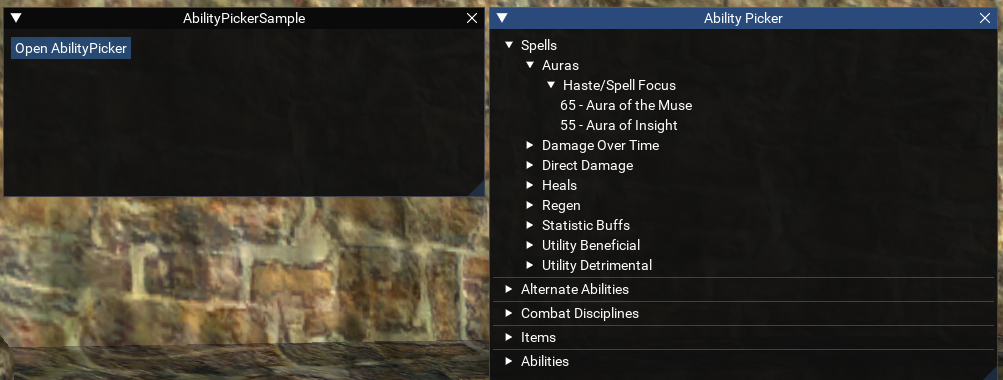
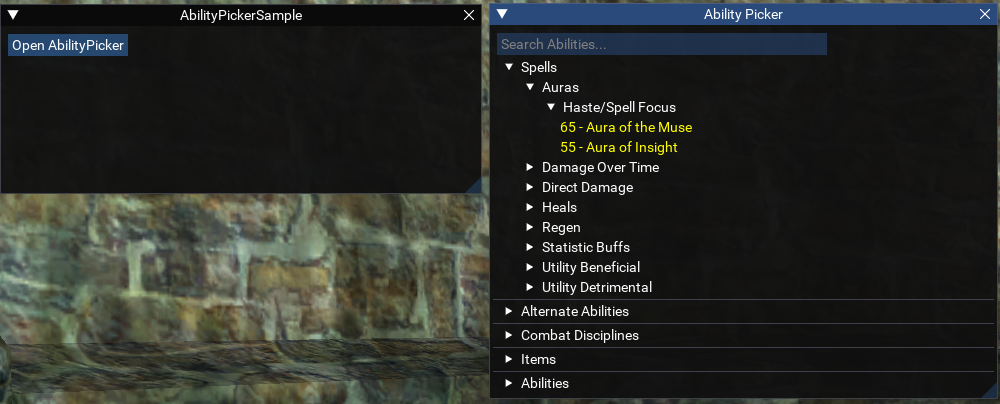
color and filtering

diff --git a/README.md b/README.md
@@ -5,6 +5,7 @@ AbilityPicker is a utility for selecting EverQuest abilities via a UI.
 A sample script is provided to demonstrate how it may be used. Copy `abilitypicker` folder to your MQ `lua` folder and `/lua run abilitypicker`.  
 
 ![](./images/pickerOpen.png)  
+![](./images/pickerFiltered.png)  
 ![](./images/pickerSelected.png)  
 
 ## Overview
@@ -34,27 +35,31 @@ end
 When an ability is selected, AbilityPicker.Selected will contain the following values:  
 
 When `Type` == `'Spell'`
+- ID
 - Name
 - RankName
 - Level  
 
 When `Type` == `'Disc'`
+- ID
 - Name
 - RankName
 - Level  
 
 When `Type` == `'AA'`
+- ID
 - Name  
 
 When `Type` == `'Item'`
+- ID
 - Name
 - SpellName  
 
 When `Type` == `'Ability'`
+- ID
 - Name  
 
 ## TODO
 
-- Add some color
 - Add icons or more info about abilities where available
 - Add support for registering custom categories, for example adding a list of commands like for KA `command:/somecommand` type stuff
